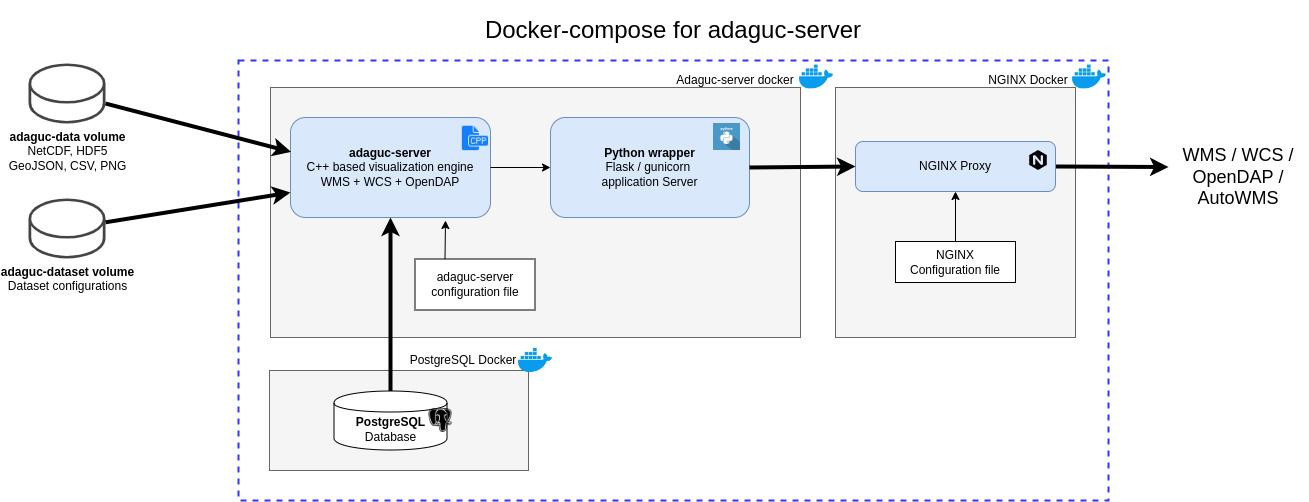
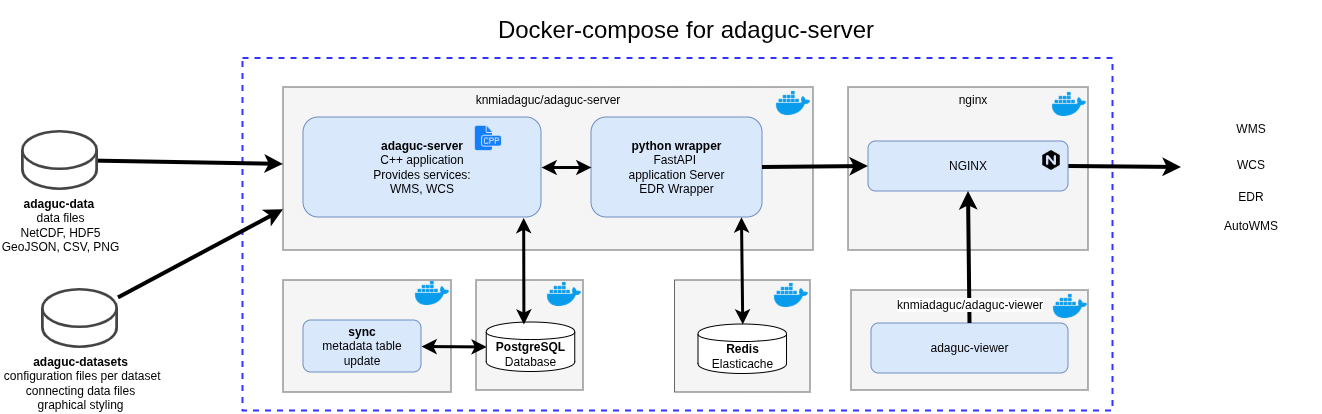
Updated diagrams

diff --git a/doc/Running.md b/doc/Running.md
@@ -9,10 +9,11 @@ The easiest way to make use of the adaguc-server is via docker containers. Docke
 
 Adaguc comprises the following components run in separate containers:
 
-1. adaguc-server
+1. adaguc-server and autosync
 2. adaguc-viewer
 3. nginx webserver
 4. postgresql database
+5. redis elasticache
 
 ![Running adaguc-server via docker](./overview/adaguc-server-docker-compose.png)
 